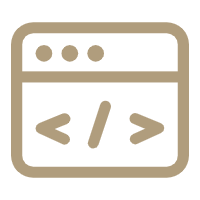
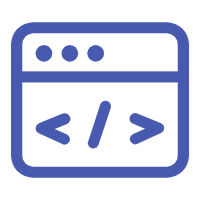
infor change

diff --git a/css/style.css b/css/style.css
@@ -335,7 +335,7 @@ nav ul li a {
 
 #about .div-img-bg {
   padding-bottom: 30px;
-  border: 20px solid #b8a07e;
+  border: 20px solid #475AAF;
 }
 
 #about .div-img-bg .about-img img {
